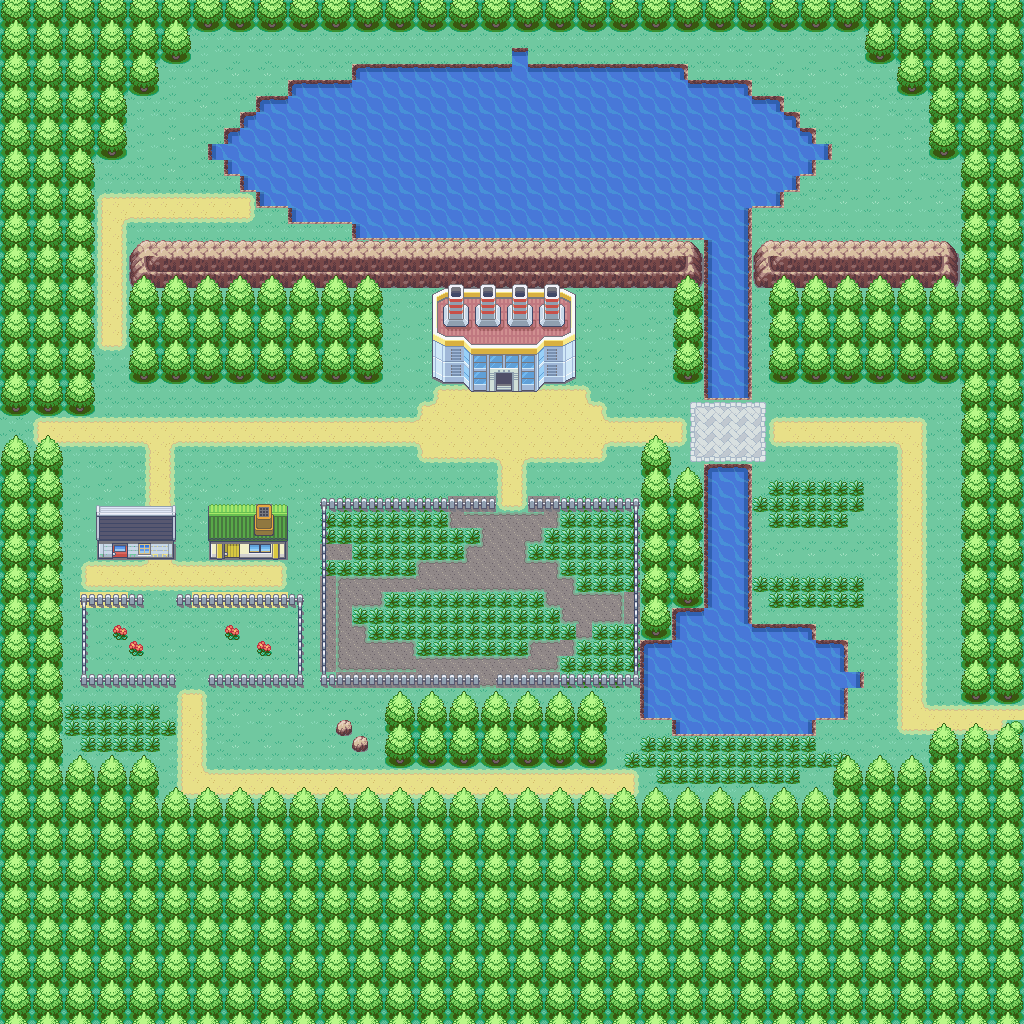
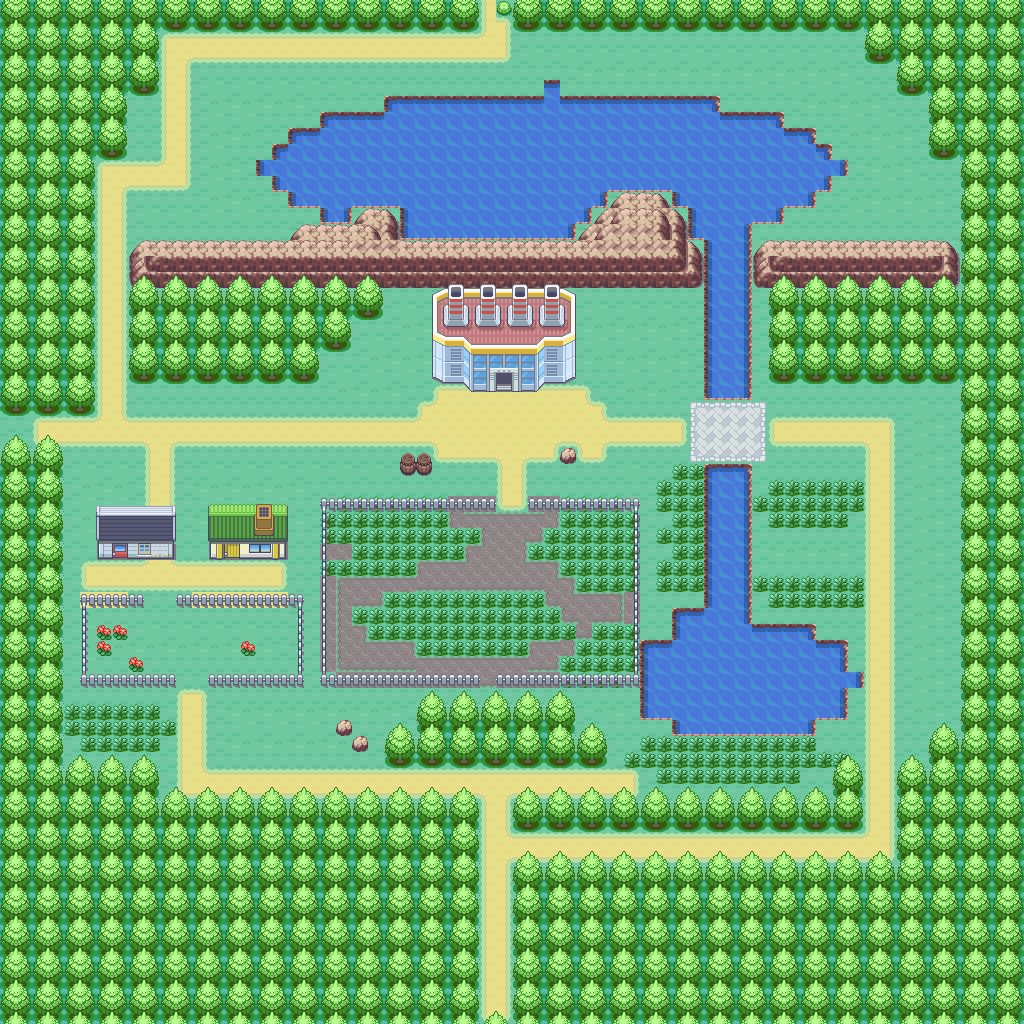
Greystone Vale: The Power Station redrawn to the grown plan - the Pylon Road north along the reservoir, a ring of roads, the south road to Safari Marsh

diff --git a/tools/mapcraft/worlds/greystoneVale/powerStation.ts b/tools/mapcraft/worlds/greystoneVale/powerStation.ts
@@ -39,20 +39,20 @@ const LAND = [
   'TTT...........................TT',
   'TTT...........................TT',
   'TTT...........................TT',
-  'TTT.TTTTTTTT.........TTTTTTTTTTT',
-  'TTT.TTTTTTTT.........TTTTTTTTTTT',
-  'TTT.TTTTTTTT.........TTTTTTTTTTT',
+  'TTT.TTTTTTTT..........TTTTTTTTTT',
+  'TTT.TTTTTTT...........TTTTTTTTTT',
+  'TTT.TTTTTT............TTTTTTTTTT',
   'TTT...........................TT',
   '..............................TT',
-  'TT..................TT........TT',
-  'TT..................TT........TT',
-  'TT..................TT........TT',
-  'TT..................TT........TT',
-  'TT..................TT........TT',
-  'TT..................TT........TT',
   'TT............................TT',
   'TT............................TT',
-  'TT..........TTTTTTT.............',
+  'TT............................TT',
+  'TT............................TT',
+  'TT............................TT',
+  'TT............................TT',
+  'TT............................TT',
+  'TT............................TT',
+  'TT...........TTTTT............TT',
   'TT.........TTTTTTTT..........TTT',
   'TTTTT.....................TTTTTT',
   'TTTTTTTTTTTTTTTTTTTTTTTTTTTTTTTT',
@@ -70,11 +70,15 @@ export function powerStation(): MapcraftResult {
 
   // -- The reservoir behind the dam, and the dam: a cliff band across the
   // valley with the station built against its foot
-  p.blob(32, 9, 19, 6, 'W');
+  p.blob(34, 10, 18, 5, 'W');
   p.block(8, 15, 52, 3, 'C'); // across the valley to the east wood
-  // A path climbs round the dam's west end, between it and the hillside,
-  // onto the reservoir's shore.
-  p.road([[6, 20], [6, 12], [14, 12]]);
+  // and stepping up where the rock stands proud of the water, so it is a
+  // hillside the dam was built into rather than a ruled line
+  p.draw(18, 13, ['    CCC', 'CCCCCCC']);
+  p.draw(36, 12, ['  CCCC', ' CCCCCC', 'CCCCCCCC']);
+  // The Pylon Road climbs round the dam's west end, between it and the
+  // hillside, and runs along the reservoir's north shore out of the vale.
+  p.road([[6, 26], [6, 10], [10, 10], [10, 2], [30, 2], [30, 0]]);
   // The station's chimney caps stand in the dam's bottom row, the cliff's face
   // behind and between them, as Route 10's stands against its cliff.
   p.building('power-plant', 27, 17);
@@ -92,7 +96,9 @@ export function powerStation(): MapcraftResult {
   // forecourt, over the tailrace and away east as the Pylon Road
   p.road([[2, 26], [43, 26]]);
   p.block(43, 25, 5, 4, 'M'); // the stone bridge over the tailrace
-  p.road([[48, 26], [56, 26], [56, 44], [62, 44]]);
+  // Over the bridge, down the tailrace's east bank past the damkeeper, and
+  // through the wood to meet the south road, so the valley's roads are a ring.
+  p.road([[48, 26], [54, 26], [54, 52], [30, 52]]);
   // The forecourt: sand worn bare in front of the doors, as Route 10's plant
   // stands on, running into the road
   p.draw(25, 24, [
@@ -102,9 +108,10 @@ export function powerStation(): MapcraftResult {
     'dddddddddddddd',
     ' dddddddddddd ',
   ]);
-  // Two boulders at its front corners, either side of the way down to the
-  // yard, so whoever lands here meets something whichever way they set off.
-  p.building('rock', 27, 28).building('rock', 34, 28);
+  // The station's stores stacked at the forecourt's west end and a boulder
+  // out on the east, so whoever lands here meets something whichever way
+  // they set off.
+  p.building('barrels', 25, 28).building('rock', 35, 28);
 
   // -- The switchyard: fenced and gone to grass, its gate off the forecourt,
   // its service gate at the back
@@ -124,12 +131,15 @@ export function powerStation(): MapcraftResult {
   p.road([[9, 28], [9, 35]]);
   p.road([[5, 35], [16, 35]]); // the lane along their doors, the garden across it
   p.yard(5, 37, 14, 6, { gates: [[9, 37], [10, 37], [11, 42], [12, 42]], inner: '.' }); // their garden
-  p.flowers([7, 39], [8, 40], [14, 39], [16, 40]);
+  p.flowers([6, 39], [7, 39], [6, 40], [8, 41], [15, 40]);
   // and out of its back gate, down to the pond, where they fished off shift
   p.road([[11, 43], [11, 48], [38, 48]]);
+  // The south road, through the wood to the Safari Zone's gate
+  p.road([[30, 48], [30, 63]]);
 
-  // -- Grass in the wet ground: below the hamlet, and on the tailrace's east
-  // bank, where the damkeeper watches the road
+  // -- Grass in the wet ground: reeds down the tailrace's west bank, below the
+  // hamlet, and on the east bank, where the damkeeper watches the road
+  p.bedRows([29, 42, 43], [30, 41, 43], [31, 41, 43], [32, 42, 43], [33, 41, 43], [34, 42, 43], [35, 41, 43], [36, 41, 43]);
   p.bedRows([44, 4, 9], [45, 4, 10], [46, 5, 9]);
   p.bedRows([30, 48, 53], [31, 47, 53], [32, 48, 52], [36, 47, 53], [37, 48, 53]);
   p.building('rock', 21, 45).building('rock', 22, 46);
@@ -147,7 +157,7 @@ export function powerStation(): MapcraftResult {
       { x: 38, y: 41 }, // in the switchyard, by the service gate
       { x: 17, y: 41, hidden: true }, // the workers' garden
       { x: 57, y: 30 }, // the bank of the tailrace
-      { x: 15, y: 3 }, // the reservoir's north shore
+      { x: 44, y: 3 }, // the reservoir's north shore
     ],
     exits: [{ x: 30, y: 42, name: 'Service Gate', opens: { when: 'key' } }],
     extra: {
@@ -157,7 +167,8 @@ export function powerStation(): MapcraftResult {
       ],
       signs: [
         { x: 23, y: 25, lines: ['GREYSTONE POWER STATION', 'Service gate locked. Card Key holders only.'] },
-        { x: 52, y: 27, lines: ['PYLON ROAD', 'East: out of the vale.'] },
+        { x: 8, y: 25, lines: ['PYLON ROAD', 'North: along the reservoir and out of the vale.'] },
+        { x: 28, y: 49, lines: ['SAFARI ZONE', 'South: the marsh reserve.'] },
       ],
       people: [
         {

diff --git a/tools/mapcraft/worlds/greystoneVale/plan.ts b/tools/mapcraft/worlds/greystoneVale/plan.ts
@@ -43,6 +43,8 @@ export const GREYSTONE_VALE: WorldPlan = {
     [2, 3],
     [3, 3],
   ],
+  // The station's service gate, and the card to it lost in the pines next door.
+  cardKey: { lock: 'power-station', card: 'pine-hollow' },
   // The village first: the first landing a map file lists is its front door.
   districts: [
     {
@@ -123,8 +125,8 @@ export const GREYSTONE_VALE: WorldPlan = {
       name: 'THE POWER STATION',
       cell: [3, 0],
       terrain: 'mountain',
-      wildlife: 'field',
-      idea: 'A derelict hydro-electric station on the falls below the pines: a fenced compound, the turbine hall inside, and a substation gate only its card key opens.',
+      wildlife: 'power-plant',
+      idea: 'A hydro-electric station run down under its dam below the pines: the turbine hall in its pocket, the switchyard gone to grass, and a service gate only the Card Key opens.',
     },
     {
       id: 'safari-marsh',
@@ -216,8 +218,9 @@ export const GREYSTONE_VALE: WorldPlan = {
     { district: 'gull-strand', name: 'The Strand', at: [42, 40], kind: 'landing' },
     { district: 'gull-strand', name: 'River Mouth', at: [28, 54], kind: 'landmark' },
     { district: 'orchard-terraces', name: 'Farmhouse', at: [30, 20], kind: 'landing' },
-    { district: 'power-station', name: 'Turbine Hall', at: [32, 30], kind: 'landmark' },
-    { district: 'power-station', name: 'Substation', at: [48, 16], kind: 'secret' },
+    { district: 'power-station', name: 'The Dam', at: [30, 28], kind: 'landing' },
+    { district: 'power-station', name: 'Turbine Hall', at: [31, 21], kind: 'landmark' },
+    { district: 'power-station', name: 'Switchyard', at: [30, 37], kind: 'secret' },
     { district: 'safari-marsh', name: 'Rest House', at: [30, 30], kind: 'landing' },
     { district: 'the-wreck', name: 'The Wreck', at: [44, 40], kind: 'landmark' },
     { district: 'the-wreck', name: 'Salvage Camp', at: [20, 30], kind: 'landing' },

diff --git a/docs/screens/greystone-vale/README.md b/docs/screens/greystone-vale/README.md
@@ -607,18 +607,22 @@ to: they scored 7 to 9 every round.
 
 ## The Power Station
 
-The station east of Pine Hollow, at the head of a new column of the vale. The
-Pine Trail that used to leave the vale there is the way in from the pines now.
+The station east of Pine Hollow, at the head of the vale's new east column. The
+Pine Trail that used to leave the vale there is the way in from the pines now,
+and the south road leads on to Safari Marsh.
 
 - **The dam:** a cliff band across the head of the valley with the reservoir
-  behind it. A path climbs round its west end onto the shore, where the relay
-  mast stands.
+  behind it. The Pylon Road climbs round its west end and runs along the
+  reservoir's north shore out of the vale; the relay mast stands on the far
+  shore.
 - **The station:** FireRed's own Power Plant, cut off Route 10 with its chimney
   caps standing in the dam's bottom row, as Route 10's stand against its cliff.
   It sits in a pocket of wood under the dam, with a sand forecourt where you
   land (The Dam).
-- **The road:** in from the pines, along the forecourt, over the tailrace on a
-  stone bridge, and out east as the Pylon Road.
+- **The roads, a ring:** in from the pines, along the forecourt, over the
+  tailrace on a stone bridge, down the east bank past the damkeeper, and
+  through the wood to the south road, which goes on to Safari Marsh and back up
+  past the hamlet.
 - **The switchyard:** fenced and gone to grass, its gravel showing through. It
   is where the station's Electric wildlife lives: Voltorb, Magnemite and
   Pikachu, now and then an Electabuzz. Its Service Gate at the back is locked
